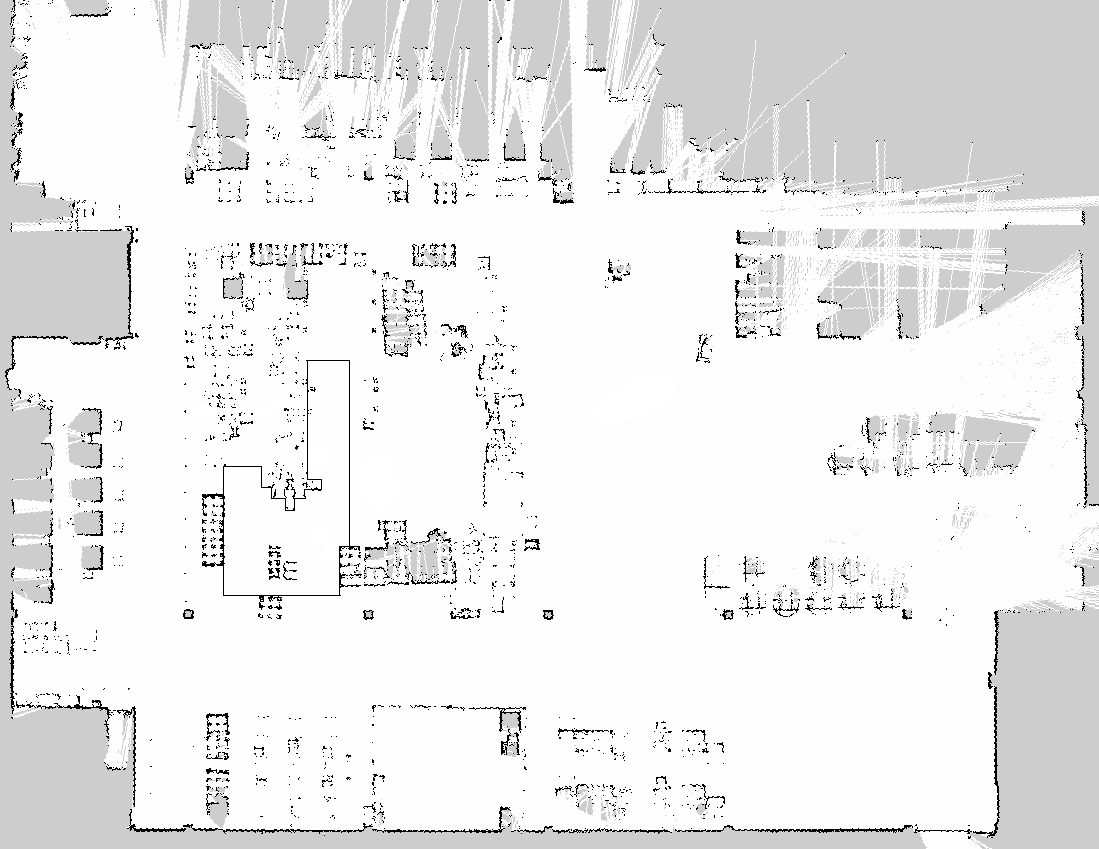
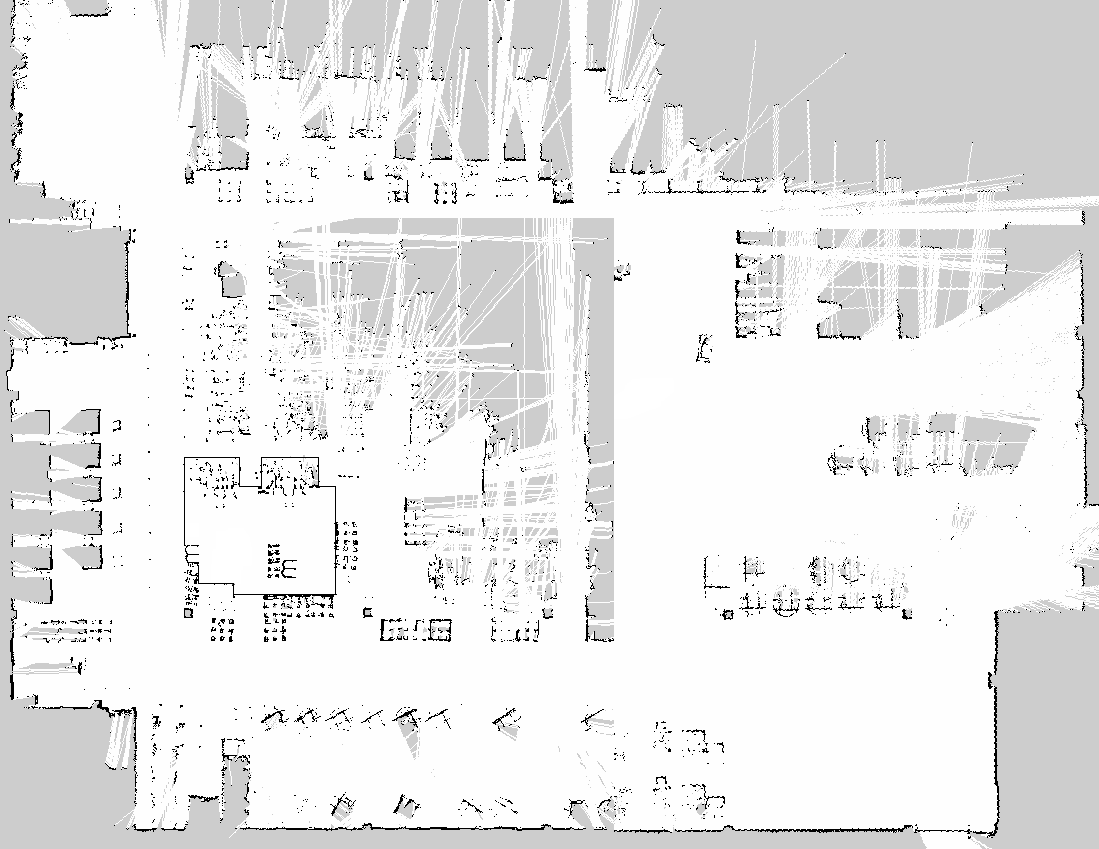
newest

diff --git a/amr-rmf/launch/machine_D242_client.launch.py b/amr-rmf/launch/machine_D242_client.launch.py
@@ -7,14 +7,14 @@ from launch_ros.actions import Node
 
 
 def generate_launch_description():
-    config_file = PathJoinSubstitution([FindPackageShare("machine_server_ros2"), "config.yaml"])
+    config_file = PathJoinSubstitution([FindPackageShare("machine_server_ros2"), "config_D242.yaml"])
     return LaunchDescription(
         [
             Node(
                 package="machine_server_ros2",
                 namespace="",
                 executable="machine_server_keyence",
-                name="machine_service",
+                name="machine_D242_service",
                 output="screen",
                 emulate_tty=True,
                 respawn=True,
@@ -24,7 +24,7 @@ def generate_launch_description():
                 package="machine_server_ros2",
                 namespace="",
                 executable="machine_state_update_keyence",
-                name="machine_state_update",
+                name="machine_D242_state_update",
                 output="screen",
                 emulate_tty=True,
                 respawn=True,
@@ -34,16 +34,16 @@ def generate_launch_description():
                 package="machine_fleet_client_ros2",
                 namespace="",
                 executable="machine_fleet_client_ros2",
-                name="fleet_machine_client_node",
+                name="fleet_machine_D242_client_node",
                 output="screen",
                 emulate_tty=True,
                 respawn=True,
                 parameters=[
                     {
-                        "machine_name": "nqvlm104",
-                        "machine_state_topic": "/nqvlm104_machine_state",
-                        "station_request_topic": "/nqvlm104_station_request",
-                        "machine_service_name": "/nqvlm104_server",
+                        "machine_name": "D242",
+                        "machine_state_topic": "/D242_machine_state",
+                        "station_request_topic": "/D242_station_request",
+                        "machine_service_name": "/D242_server",
                         "dds_domain": 52,
                         "dds_state_topic": "machine_state",
                         "dds_machine_request_topic": "machine_request",

diff --git a/amr_fleet_adapter/amr_fleet_adapter/fleet_adapter.py b/amr_fleet_adapter/amr_fleet_adapter/fleet_adapter.py
@@ -662,6 +662,7 @@ class RobotAdapter:
                 return
 
             # Navigation normal:
+            vertex = None
             is_last_destination = False
             if (
                 destination.xy[0] == last_destination.xy[0]
@@ -673,15 +674,16 @@ class RobotAdapter:
                     f"on map [{destination.map}]: cmd_id {self.cmd_id}"
                 )
 
+                if destination.name != "":
+                    vertex = self.vertexs_config.get(destination.name, None)
+
             self.mission = MissionHandle(
                 execution,
                 navigate=True,
                 destination=destination,
                 is_last_destination=is_last_destination,
             )
-            vertex = None
-            if destination.name != "":
-                vertex = self.vertexs_config.get(destination.name, None)
+
 
             if vertex != None:
                 pose = [

diff --git a/amr-rmf/launch/machine_server.launch.py b/amr-rmf/launch/machine_server.launch.py
@@ -19,7 +19,7 @@ def generate_launch_description():
                 parameters=[
                     {
                         "fleet_name": "station",
-                        "machine_names": ["nqvlm104"],
+                        "machine_names": ["D242"],
                         "fleet_state_topic": "fleet_machine_state",
                         "machine_request_topic": "machine_requests",
                         "station_request_topic": "adapter_station_requests",

diff --git a/amr-rmf/launch/rmf.launch.py b/amr-rmf/launch/rmf.launch.py
@@ -172,7 +172,7 @@ def generate_launch_description():
                         [
                             FindPackageShare("amr-rmf"),
                             "launch",
-                            "machine_client.launch.py",
+                            "machine_D242_client.launch.py",
                         ]
                     )
                 )
